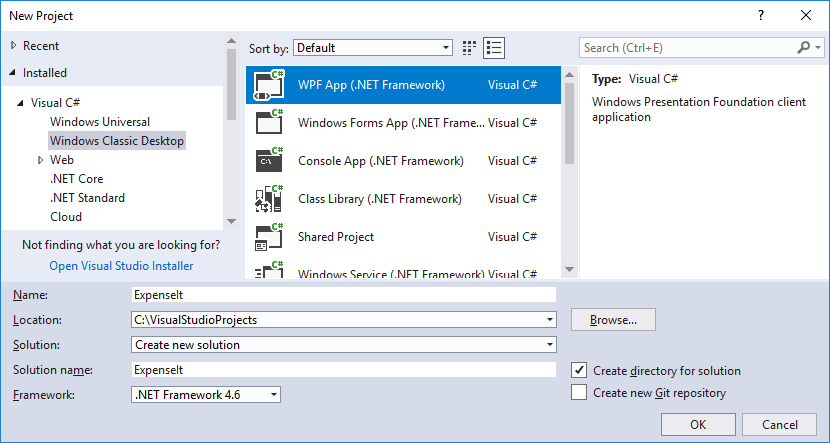
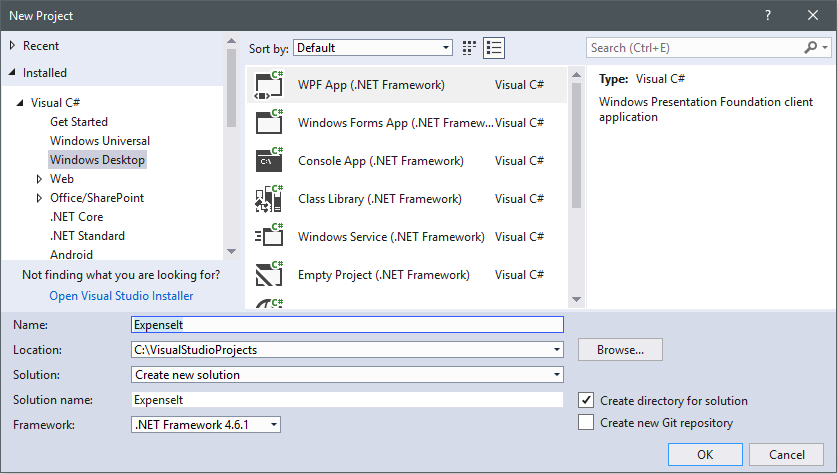
Fixes #8150 out of date (#8667)
* Changed 'Windows Classic Desktop' to 'Windows Desktop' #8150

* Updated new-project-dialog.png #8150

* Review changes

diff --git a/docs/framework/wpf/getting-started/walkthrough-my-first-wpf-desktop-application.md b/docs/framework/wpf/getting-started/walkthrough-my-first-wpf-desktop-application.md
@@ -1,6 +1,6 @@
 ---
 title: Create a WPF application in Visual Studio
-ms.date: 04/12/2018
+ms.date: 10/26/2018
 dev_langs:
   - "csharp"
   - "vb"
@@ -37,7 +37,7 @@ By the end of the walkthrough, you'll have built a standalone Windows applicatio
 
 ## Prerequisites
 
-- Visual Studio 2012 or later (this article is based on Visual Studio 2017)
+- Visual Studio 2017 or later
 
    For more information about installing the latest version of Visual Studio, see [Install Visual Studio](/visualstudio/install/install-visual-studio).
 
@@ -51,7 +51,7 @@ The first step is to create the application infrastructure, which includes an ap
 
       The **New Project** dialog opens.
 
-   2. Under the **Installed** category, expand either the **Visual C#** or **Visual Basic** node, and then select **Windows Classic Desktop**.
+   2. Under the **Installed** category, expand either the **Visual C#** or **Visual Basic** node, and then select **Windows Desktop**.
 
    3. Select the **WPF App (.NET Framework)** template. Enter the name **`ExpenseIt`** and then select **OK**.
 
